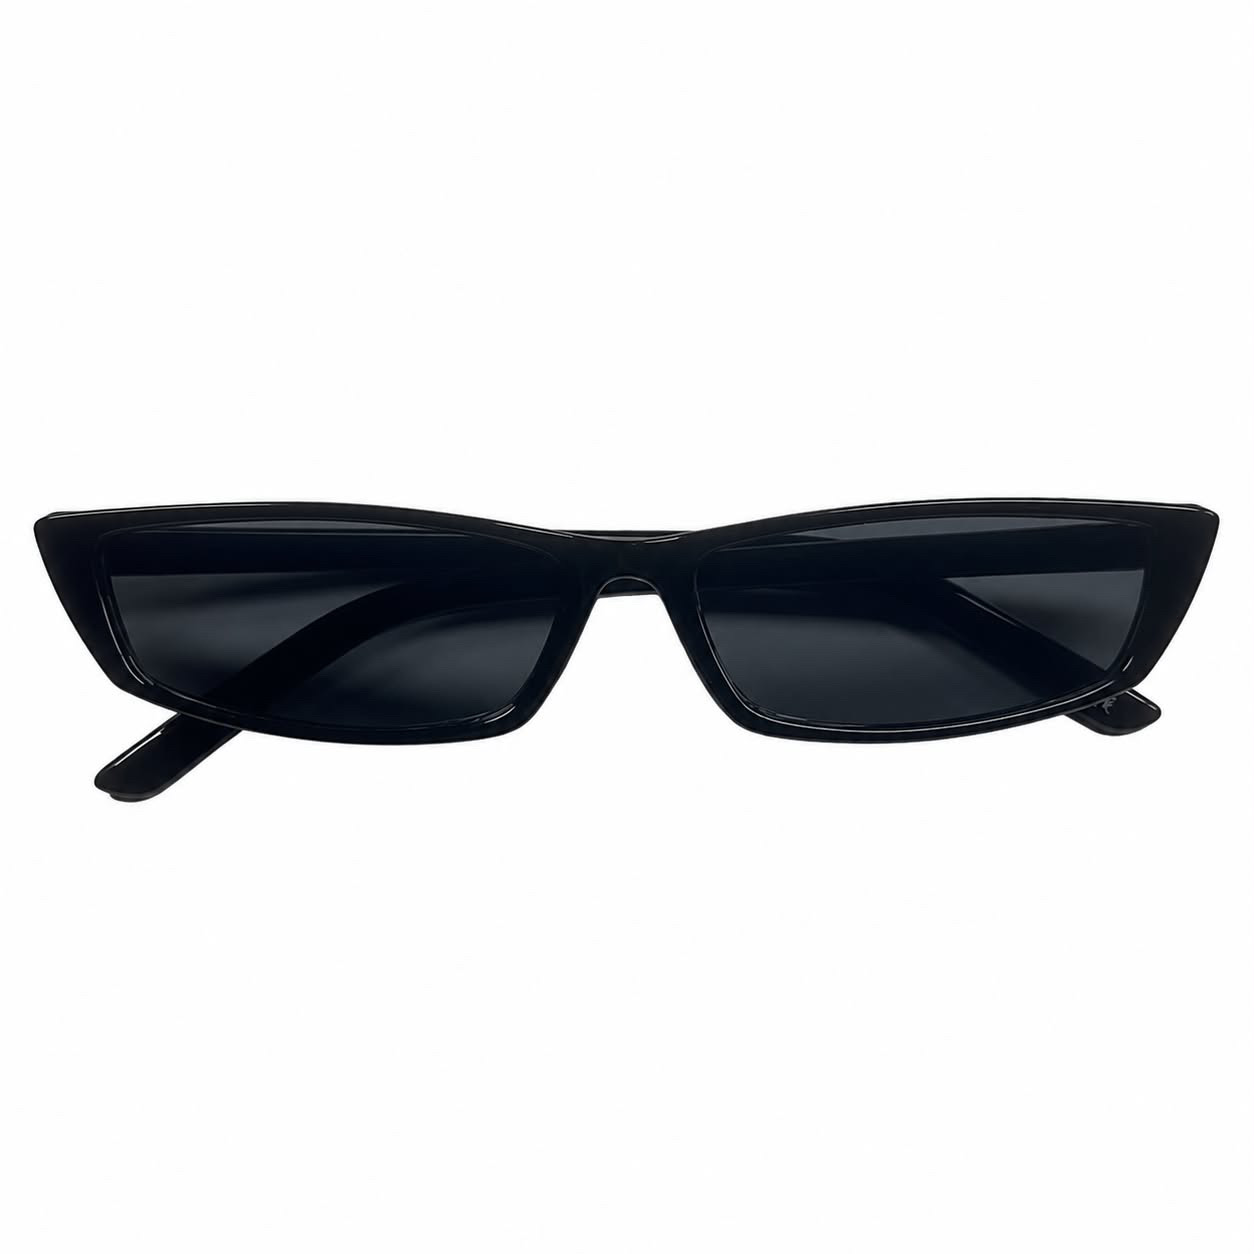
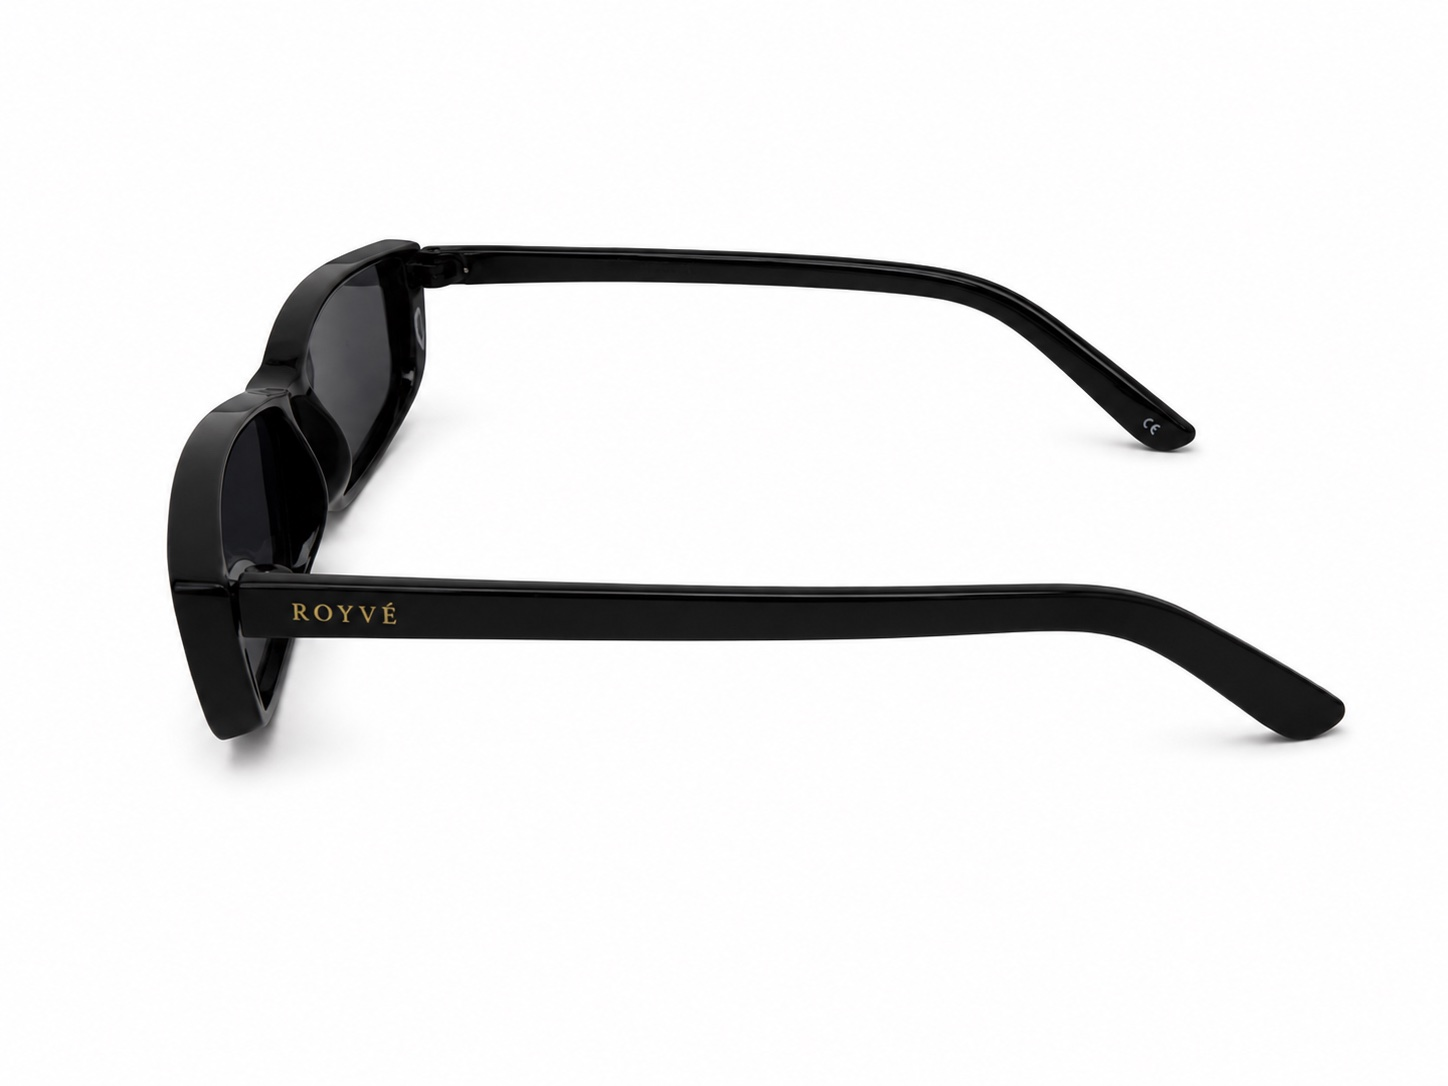
Update all product images with new photos (front/side/back order)

Changed region(s): [[0.0311, 0.2127, 0.9952, 0.7293]]

diff --git a/lib/products.ts b/lib/products.ts
@@ -25,7 +25,7 @@ export const products: Product[] = [
       en: "Absolute minimalism. Black frame, black lenses — for those who need no explanation.",
     },
     details: ["Черна ацетатна рамка", "Черни поляризирани стъкла", "UV400 защита", "Включва луксозна кутия"],
-    images: ["/products/noir-1.jpg", "/products/noir-2.jpg"],
+    images: ["/products/vanta-1.jpg", "/products/vanta-2.jpg", "/products/vanta-3.jpg", "/products/vanta-4.jpg"],
   },
   {
     id: "amber",
@@ -38,7 +38,7 @@ export const products: Product[] = [
       en: "Warmth within cold aesthetics. Black frame with amber lenses — contrast that speaks for itself.",
     },
     details: ["Черна ацетатна рамка", "Кехлибарени стъкла", "UV400 защита", "Включва луксозна кутия"],
-    images: ["/products/amber-1.jpg", "/products/amber-2.jpg"],
+    images: ["/products/oro-1.jpg", "/products/oro-2.jpg", "/products/oro-3.jpg", "/products/oro-4.jpg"],
   },
   {
     id: "epoc",
@@ -53,7 +53,7 @@ export const products: Product[] = [
       en: "No boundaries. Rimless construction with gold hardware and blue lenses — lightness with character.",
     },
     details: ["Без рамка", "Златна метална арматура", "Сини стъкла", "UV400 защита"],
-    images: ["/products/azure-1.jpg", "/products/azure-2.jpg"],
+    images: ["/products/epoc-1.jpg", "/products/epoc-2.jpg", "/products/epoc-3.jpg", "/products/epoc-4.jpg"],
   },
   {
     id: "obsidian",
@@ -67,7 +67,7 @@ export const products: Product[] = [
       en: "Darkness without boundaries. Rimless construction with dark lenses and gold hardware — mystery in pure form.",
     },
     details: ["Без рамка", "Златна метална арматура", "Тъмни стъкла", "UV400 защита"],
-    images: ["/products/obsidian-1.jpg", "/products/obsidian-2.jpg"],
+    images: ["/products/nyx-1.jpg", "/products/nyx-2.jpg", "/products/nyx-3.jpg", "/products/nyx-4.jpg"],
   },
   {
     id: "krypt",
@@ -81,7 +81,7 @@ export const products: Product[] = [
       en: "Sharp form. Dark identity. Black cat-eye frame for those who need no approval.",
     },
     details: ["Черна ацетатна рамка", "Котешка форма", "Тъмни поляризирани стъкла", "UV400 защита", "Включва луксозна кутия"],
-    images: ["/products/krypt-2.jpg", "/products/krypt-1.jpg"],
+    images: ["/products/krypt-1.jpg", "/products/krypt-2.jpg", "/products/krypt-3.jpg"],
   },
   {
     id: "sahra",
@@ -95,7 +95,7 @@ export const products: Product[] = [
       en: "Warmth without limits. Gold rimless frame with amber gradient lenses — luxury in pure form.",
     },
     details: ["Без рамка", "Златна метална арматура", "Кехлибарени градиентни стъкла", "UV400 защита", "Включва луксозна кутия"],
-    images: ["/products/sahra-2.jpg", "/products/sahra-1.jpg"],
+    images: ["/products/sahra-1.jpg", "/products/sahra-2.jpg", "/products/sahra-3.jpg", "/products/sahra-4.jpg"],
   },
   {
     id: "monarch",
@@ -109,7 +109,7 @@ export const products: Product[] = [
       en: "Wide presence. Thick black acetate frame — for those who claim the space that belongs to them.",
     },
     details: ["Широка черна ацетатна рамка", "Тъмни поляризирани стъкла", "UV400 защита", "Включва луксозна кутия"],
-    images: ["/products/monarch-front.jpg", "/products/monarch-1.jpg"],
+    images: ["/products/monarch-1.jpg", "/products/monarch-2.jpg", "/products/monarch-3.jpg", "/products/monarch-4.jpg"],
   },
   {
     id: "azure",
@@ -123,7 +123,7 @@ export const products: Product[] = [
       en: "Blue without boundaries. Thin metal rimless frame with blue lenses — lightness with character.",
     },
     details: ["Без рамка", "Тънка метална арматура", "Сини стъкла", "UV400 защита", "Включва луксозна кутия"],
-    images: ["/products/azure2-1.jpg", "/products/azure2-2.jpg"],
+    images: ["/products/azure-new-1.jpg", "/products/azure-new-2.jpg", "/products/azure-new-3.jpg", "/products/azure-new-4.jpg"],
   },
   {
     id: "velor",
@@ -137,7 +137,7 @@ export const products: Product[] = [
       en: "Dark precision. Black thin metal rimless frame — minimalism with maximum impact.",
     },
     details: ["Без рамка", "Тънка черна метална арматура", "Тъмни стъкла", "UV400 защита", "Включва луксозна кутия"],
-    images: ["/products/velor-1.jpg", "/products/velor-2.jpg"],
+    images: ["/products/velor-1.jpg", "/products/velor-2.jpg", "/products/velor-3.jpg", "/products/velor-4.jpg"],
   },
   {
     id: "octave",
@@ -151,7 +151,7 @@ export const products: Product[] = [
       en: "Octagonal elegance. Gold metal frame with dark lenses — geometry that commands attention.",
     },
     details: ["Осмоъгълна метална рамка", "Златна арматура", "Тъмни поляризирани стъкла", "UV400 защита", "Включва луксозна кутия"],
-    images: ["/products/octave-1.jpg", "/products/octave-2.jpg"],
+    images: ["/products/octave-1.jpg", "/products/octave-2.jpg", "/products/octave-3.jpg"],
   },
 ];
 
